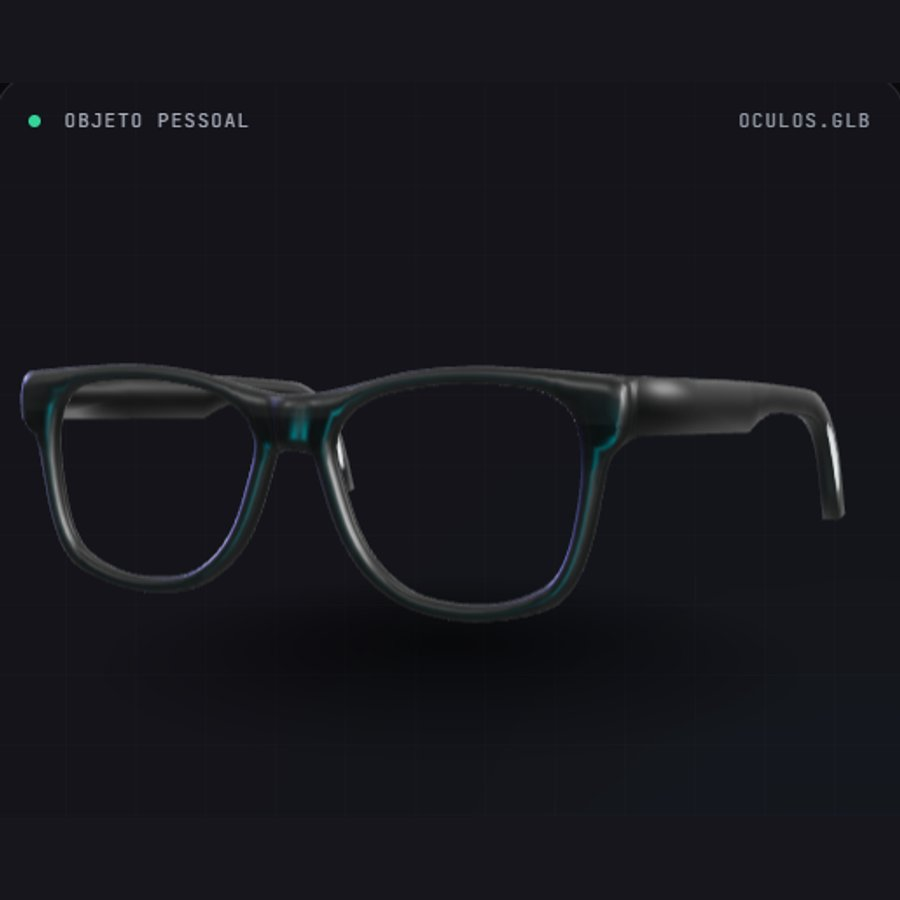
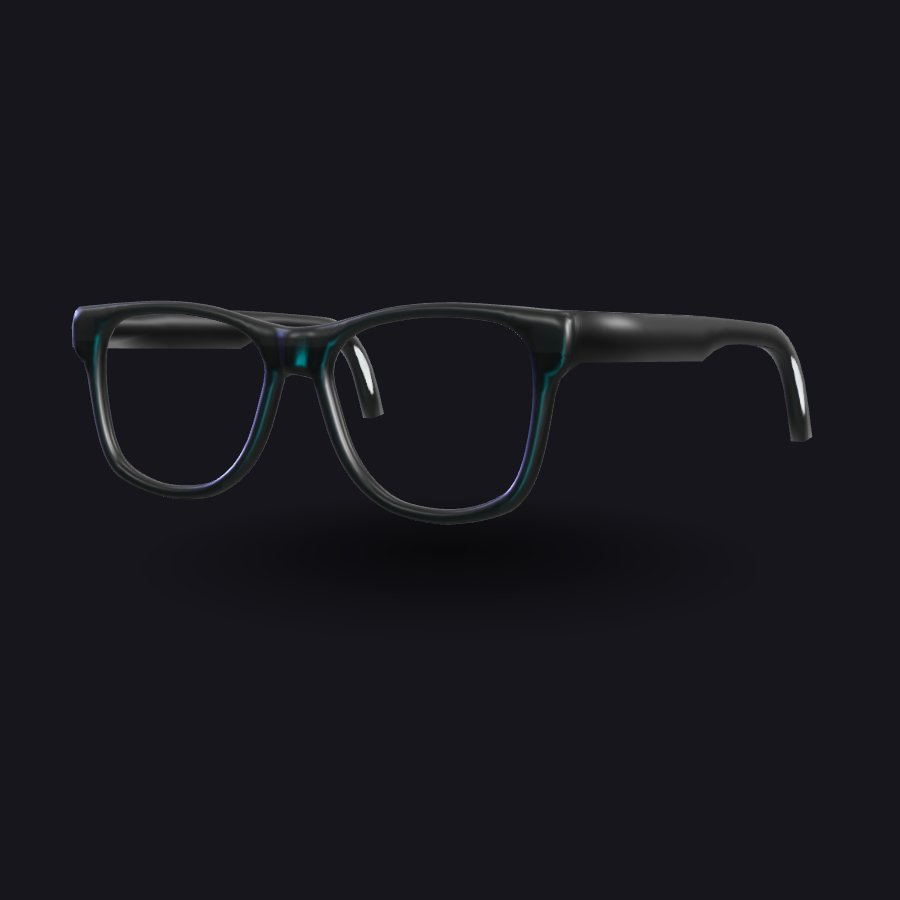
Imagem de reserva limpa dos óculos e carga confiável do 3D
A imagem provisória do hero vinha de um recorte com a barra do card;
agora é renderizada pelo próprio visualizador (tools/render-glasses.html).
O 3D do hero inicia depois do carregamento mesmo quando o navegador não
dispara o IntersectionObserver (já visível na tela).

Changed region(s): [[0.0, 0.3111, 0.9644, 0.6844], [0.0311, 0.1244, 0.28, 0.1556], [0.8089, 0.1244, 0.9644, 0.1556]]

diff --git a/src/scripts/main.js b/src/scripts/main.js
@@ -218,6 +218,8 @@ brand.addEventListener('mouseenter', () => {
 /* ---------- 3D sob demanda ---------- */
 function whenVisible(el, cb, margin = '200px') {
   if (!el) return;
+  const r = el.getBoundingClientRect();
+  if (r.bottom > 0 && r.top < innerHeight) { cb(); return; } // já está na tela
   const io = new IntersectionObserver(entries => {
     if (entries.some(e => e.isIntersecting)) { io.disconnect(); cb(); }
   }, { rootMargin: margin });
@@ -231,8 +233,14 @@ const hero = $('#hero3DContainer');
 const statue = $('#statue3DContainer');
 // O hero mostra primeiro uma imagem dos óculos; o 3D entra depois que a página carregou.
 const afterLoad = fn => {
-  const go = () => ('requestIdleCallback' in window ? requestIdleCallback(fn, { timeout: 2500 }) : setTimeout(fn, 600));
-  document.readyState === 'complete' ? go() : addEventListener('load', go, { once: true });
+  let done = false;
+  const run = () => { if (!done) { done = true; fn(); } };
+  const go = () => {
+    if ('requestIdleCallback' in window) requestIdleCallback(run, { timeout: 1500 });
+    setTimeout(run, 1800); // garantia caso o navegador nunca fique ocioso
+  };
+  if (document.readyState === 'complete') go();
+  else { addEventListener('load', go, { once: true }); setTimeout(run, 6000); }
 };
 if (webglOk()) {
   afterLoad(() => whenVisible(hero, () => import('./viewer-glasses.js').then(mod => mod.init(hero)).catch(showFallback), '0px'));
@@ -254,5 +262,7 @@ renderFilters();
 renderCards();
 applyFilter('all');
 route();
+
+
 
 

diff --git a/tools/render-glasses.html b/tools/render-glasses.html
@@ -1,0 +1,11 @@
+<!DOCTYPE html>
+<!-- Página auxiliar para gerar a imagem de reserva dos óculos (captura com navegador headless, 900x900). -->
+<html lang="pt-BR"><head><meta charset="UTF-8"><link rel="stylesheet" href="../src/styles/main.css">
+<style>body{margin:0;background:#16161c}#hero3DContainer{position:fixed;inset:0}</style></head>
+<body>
+<div id="hero3DContainer" class="viewer-canvas"></div>
+<script type="module">
+  import { init } from '../src/scripts/viewer-glasses.js';
+  init(document.getElementById('hero3DContainer'));
+</script>
+</body></html>
